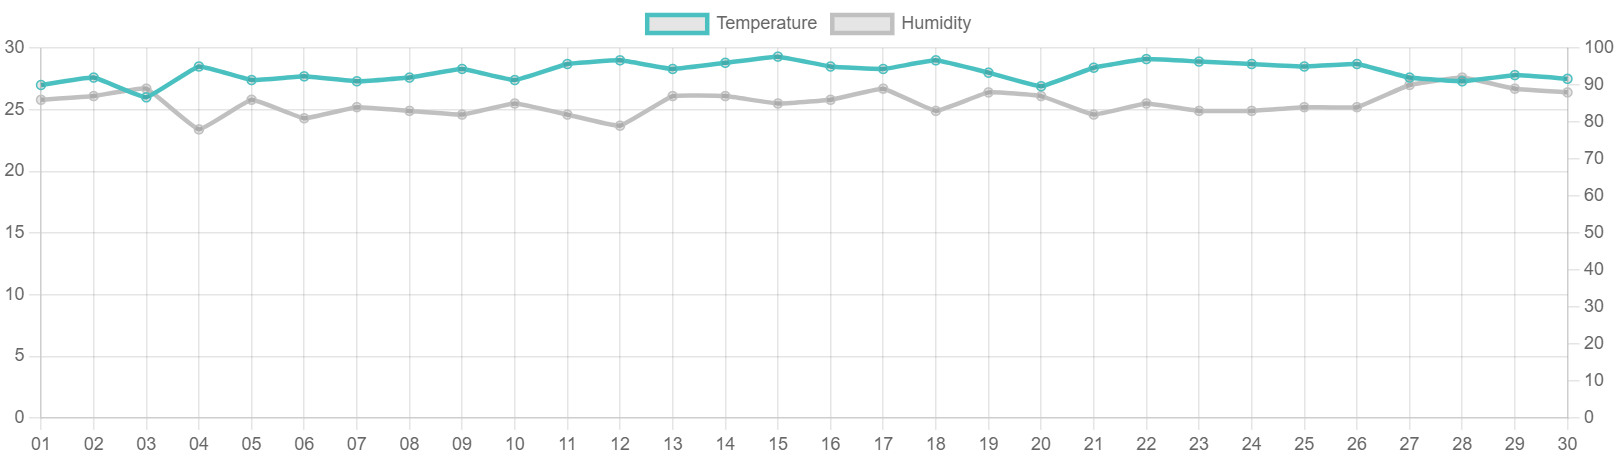
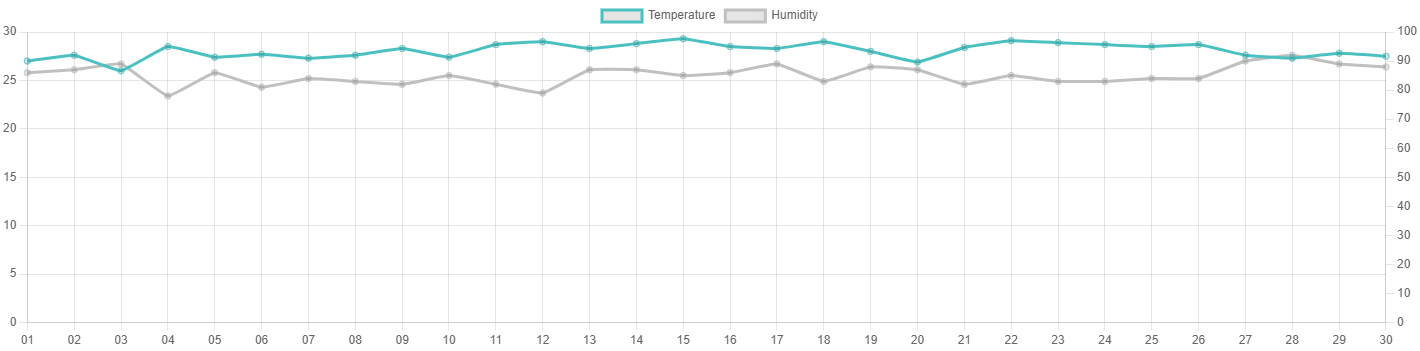
Small updates

diff --git a/Templates/Central.html b/Templates/Central.html
@@ -63,7 +63,7 @@
 
 
         <!--Charting-->
-        <div class="bg-light shadow-sm mx-auto" style="width: 80%; height: 520px; border-radius: 20px 20px 0 0;">
+        <div class="bg-light shadow-sm mx-auto" style="width: 80%; border-radius: 20px 20px 0 0; margin: auto;">
         <canvas id="{{ i[0][0] }}" style="height:10vh; width:20vw"></canvas>
         <!--Generating Chart into backend server-->
         <input type="hidden" id="lineName" name="graphName" value="{{ i[0][0] }}">

diff --git a/Templates/East.html b/Templates/East.html
@@ -64,7 +64,7 @@
 
 
         <!--Charting-->
-        <div class="bg-light shadow-sm mx-auto" style="width: 80%; height: 520px; border-radius: 20px 20px 0 0;">
+        <div class="bg-light shadow-sm mx-auto" style="width: 80%; border-radius: 20px 20px 0 0; margin: auto;">
         <canvas id="{{ i[0][0] }}" style="height:10vh; width:20vw"></canvas>
         <!--Generating Chart into backend server-->
         <input type="hidden" id="lineName" name="graphName" value="{{ i[0][0] }}">

diff --git a/Templates/North.html b/Templates/North.html
@@ -64,7 +64,7 @@
 
 
         <!--Charting-->
-        <div class="bg-light shadow-sm mx-auto" style="width: 80%; height: 520px; border-radius: 20px 20px 0 0;">
+        <div class="bg-light shadow-sm mx-auto" style="width: 80%; border-radius: 20px 20px 0 0; margin: auto;">
         <canvas id="{{ i[0][0] }}" style="height:10vh; width:20vw"></canvas>
         <!--Generating Chart into backend server-->
         <input type="hidden" id="lineName" name="graphName" value="{{ i[0][0] }}">

diff --git a/Templates/South.html b/Templates/South.html
@@ -64,7 +64,7 @@
 
 
         <!--Charting-->
-        <div class="bg-light shadow-sm mx-auto" style="width: 80%; height: 500px; border-radius: 20px 20px 0 0;">
+        <div class="bg-light shadow-sm mx-auto" style="width: 80%; border-radius: 20px 20px 0 0; margin: auto;">
         <canvas id="{{ i[0][0] }}" style="height:10vh; width:20vw"></canvas>
         <!--Generating Chart into backend server-->
         <input type="hidden" id="lineName" name="graphName" value="{{ i[0][0] }}">

diff --git a/Templates/West.html b/Templates/West.html
@@ -64,7 +64,7 @@
 
 
         <!--Charting-->
-        <div class="bg-light shadow-sm mx-auto" style="width: 80%; height: 520px; border-radius: 20px 20px 0 0;">
+        <div class="bg-light shadow-sm mx-auto" style="width: 80%; border-radius: 20px 20px 0 0; margin: auto;">
         <canvas id="{{ i[0][0] }}" style="height:10vh; width:20vw"></canvas>
         <!--Generating Chart into backend server-->
         <input type="hidden" id="lineName" name="graphName" value="{{ i[0][0] }}">
